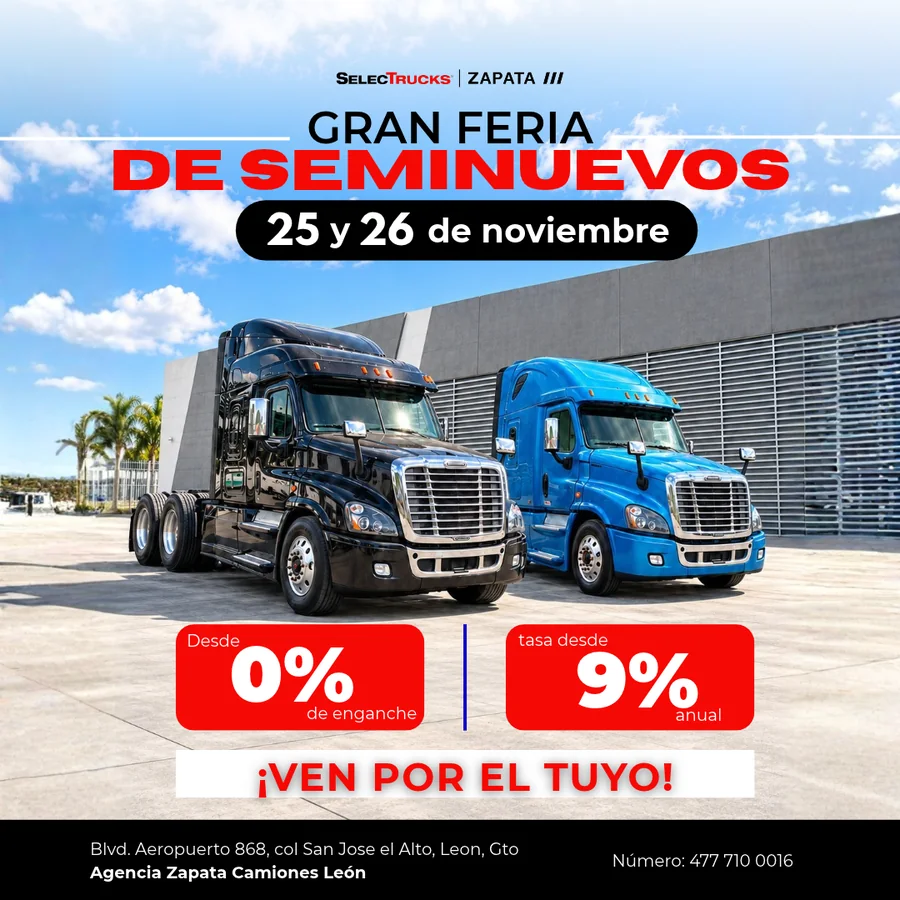
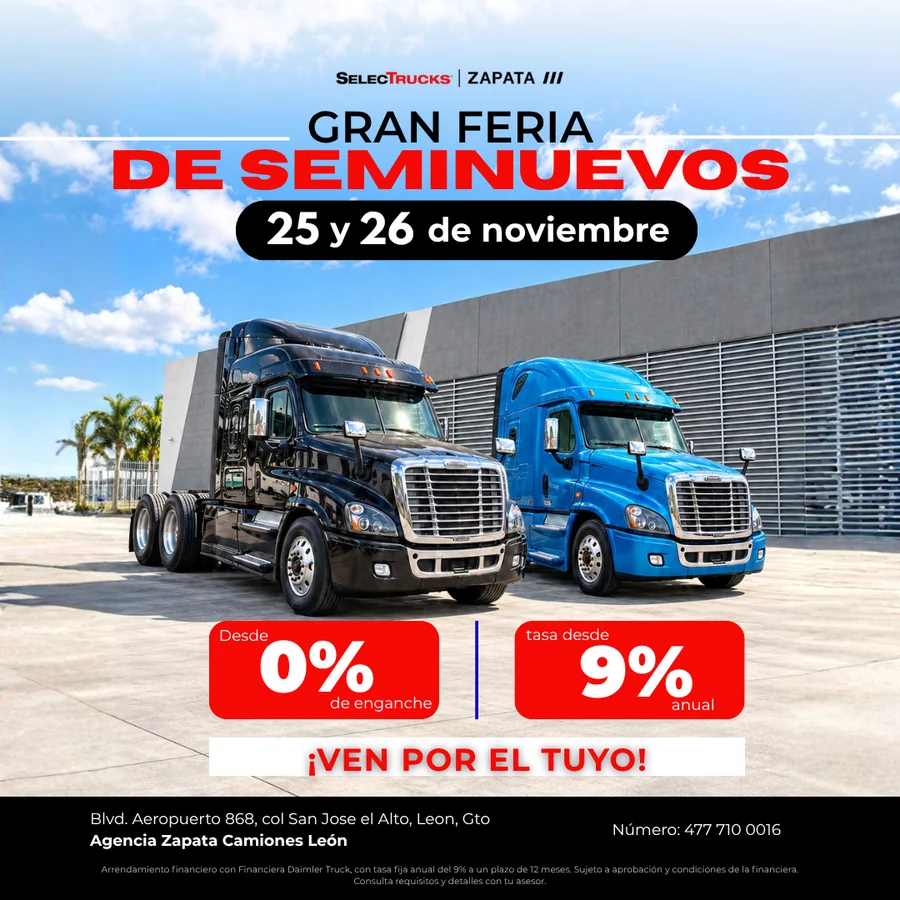
Actualización desde selectrucks-zapata-web@36e855b

diff --git a/sitio/catalog.jsx b/sitio/catalog.jsx
@@ -15,17 +15,16 @@ const CAT_UNITS = [
   { id: 22, brand: 'Freightliner', model: 'Cascadia',   year: 2021, km: '280,000', engine: 'DD15 · 505hp',        type: 'Tractocamión',    price: 1380000, monthly: 32600, branch: 'Guadalajara',   featured: true,  warranty: true, status: 'Disponible' },
   { id: 23, brand: 'International',model: 'HV Series',  year: 2020, km: '310,000', engine: 'A26 · 430hp',         type: 'Refrigerado',     price: 1150000, monthly: 27100, branch: 'Querétaro',     featured: false, warranty: true, status: 'Disponible' },
   { id: 24, brand: 'Volvo',        model: 'FH 460',     year: 2018, km: '560,000', engine: 'D13 · 460hp',         type: 'Cama baja',       price: 890000,  monthly: 20990, branch: 'Tlalnepantla',  featured: false, warranty: true, status: 'Oferta' },
-  { id: 101, brand: 'Freightliner', model: 'Cascadia', year: 2017, km: 'Por confirmar', engine: 'Por confirmar', type: 'Tractocamión', price: null, monthly: null, branch: 'Guadalajara', featured: false, warranty: true, status: 'Disponible', promo: true, image: 'assets/promo-especial/01-cascadia-2017-guadalajara.webp' },
+  { id: 101, brand: 'Freightliner', model: 'Cascadia', year: 2017, km: 'Por confirmar', engine: 'Por confirmar', type: 'Tractocamión', price: null, monthly: null, branch: 'Guadalajara Zapopan', featured: false, warranty: true, status: 'Disponible', promo: true, image: 'assets/promo-especial/01-cascadia-2017-zapopan.webp' },
   { id: 102, brand: 'Freightliner', model: 'Cascadia', year: 2017, km: 'Por confirmar', engine: 'Por confirmar', type: 'Tractocamión', price: null, monthly: null, branch: 'Tlalnepantla', featured: false, warranty: true, status: 'Disponible', promo: true, image: 'assets/promo-especial/02-cascadia-2017-tlalnepantla.webp' },
-  { id: 103, brand: 'Freightliner', model: 'Cascadia', year: 2012, km: 'Por confirmar', engine: 'Por confirmar', type: 'Tractocamión', price: null, monthly: null, branch: 'Guadalajara', featured: false, warranty: true, status: 'Disponible', promo: true, image: 'assets/promo-especial/03-cascadia-2012-guadalajara.webp' },
-  { id: 104, brand: 'Freightliner', model: 'Cascadia', year: 2021, km: 'Por confirmar', engine: 'Por confirmar', type: 'Tractocamión', price: null, monthly: null, branch: 'Guadalajara', featured: false, warranty: true, status: 'Disponible', promo: true, image: 'assets/promo-especial/04-cascadia-2021-guadalajara.webp' },
-  { id: 105, brand: 'International', model: 'LT Hi Rise Euro', year: 2022, km: 'Por confirmar', engine: 'Por confirmar', type: 'Tractocamión', price: null, monthly: null, branch: 'Guadalajara', featured: false, warranty: true, status: 'Disponible', promo: true, image: 'assets/promo-especial/05-lt-hi-rise-euro-2022-guadalajara.webp' },
-  { id: 106, brand: 'Volvo', model: 'VNL64T', year: 2019, km: 'Por confirmar', engine: 'Por confirmar', type: 'Tractocamión', price: null, monthly: null, branch: 'Guadalajara', featured: false, warranty: true, status: 'Disponible', promo: true, image: 'assets/promo-especial/06-vnl64t-2019-guadalajara.webp' },
-  { id: 107, brand: 'Freightliner', model: 'Cascadia', year: 2018, km: 'Por confirmar', engine: 'Por confirmar', type: 'Tractocamión', price: null, monthly: null, branch: 'Guadalajara', featured: false, warranty: true, status: 'Disponible', promo: true, image: 'assets/promo-especial/07-cascadia-2018-guadalajara.webp' },
+  { id: 103, brand: 'Freightliner', model: 'Cascadia', year: 2012, km: 'Por confirmar', engine: 'Por confirmar', type: 'Tractocamión', price: null, monthly: null, branch: 'Guadalajara Zapopan', featured: false, warranty: true, status: 'Disponible', promo: true, image: 'assets/promo-especial/03-cascadia-2012-zapopan.webp' },
+  { id: 104, brand: 'Freightliner', model: 'Cascadia', year: 2021, km: 'Por confirmar', engine: 'Por confirmar', type: 'Tractocamión', price: null, monthly: null, branch: 'Guadalajara Zapopan', featured: false, warranty: true, status: 'Disponible', promo: true, image: 'assets/promo-especial/04-cascadia-2021-zapopan.webp' },
+  { id: 105, brand: 'International', model: 'LT Hi Rise Euro', year: 2022, km: 'Por confirmar', engine: 'Por confirmar', type: 'Tractocamión', price: null, monthly: null, branch: 'Guadalajara Zapopan', featured: false, warranty: true, status: 'Disponible', promo: true, image: 'assets/promo-especial/05-lt-hi-rise-euro-2022-zapopan.webp' },
+  { id: 106, brand: 'Volvo', model: 'VNL64T', year: 2019, km: 'Por confirmar', engine: 'Por confirmar', type: 'Tractocamión', price: null, monthly: null, branch: 'Guadalajara Zapopan', featured: false, warranty: true, status: 'Disponible', promo: true, image: 'assets/promo-especial/06-vnl64t-2019-zapopan.webp' },
+  { id: 107, brand: 'Freightliner', model: 'Cascadia', year: 2018, km: 'Por confirmar', engine: 'Por confirmar', type: 'Tractocamión', price: null, monthly: null, branch: 'Guadalajara Zapopan', featured: false, warranty: true, status: 'Disponible', promo: true, image: 'assets/promo-especial/07-cascadia-2018-zapopan.webp' },
   { id: 108, brand: 'Freightliner', model: 'Cascadia', year: 2020, km: 'Por confirmar', engine: 'Por confirmar', type: 'Tractocamión', price: null, monthly: null, branch: 'Querétaro', featured: false, warranty: true, status: 'Disponible', promo: true, image: 'assets/promo-especial/08-cascadia-2020-queretaro.webp' },
-  { id: 109, brand: 'Caja', model: 'refrigerada', year: 2015, km: 'Por confirmar', engine: 'Por confirmar', type: 'Refrigerado', price: null, monthly: null, branch: 'León', featured: false, warranty: true, status: 'Disponible', promo: true, image: 'assets/promo-especial/09-caja-refrigerada-2015-leon.webp' },
-  { id: 110, brand: 'Caja', model: 'refrigerada', year: 2019, km: 'Por confirmar', engine: 'Por confirmar', type: 'Refrigerado', price: null, monthly: null, branch: 'León', featured: false, warranty: true, status: 'Disponible', promo: true, image: 'assets/promo-especial/10-caja-refrigerada-2019-leon.webp' },
-  { id: 111, brand: 'Freightliner', model: 'Cascadia', year: 2018, km: 'Por confirmar', engine: 'Por confirmar', type: 'Tractocamión', price: null, monthly: null, branch: 'Tlalnepantla', featured: false, warranty: true, status: 'Disponible', promo: true, image: 'assets/promo-especial/11-cascadia-2018-tlalnepantla.webp' },
+  { id: 110, brand: 'Caja', model: 'refrigerada', year: 2019, km: 'Por confirmar', engine: 'Por confirmar', type: 'Refrigerado', price: null, monthly: null, branch: 'León', featured: false, warranty: true, status: 'Disponible', promo: true, image: 'assets/promo-especial/09-caja-refrigerada-2019-leon.webp' },
+  { id: 111, brand: 'Freightliner', model: 'Cascadia', year: 2016, km: 'Por confirmar', engine: 'Por confirmar', type: 'Tractocamión', price: null, monthly: null, branch: 'Tlalnepantla', featured: false, warranty: true, status: 'Disponible', promo: true, image: 'assets/promo-especial/10-cascadia-2016-tlalnepantla.webp' },
 ];
 
 function FilterGroup({ title, children, defaultOpen = true }) {
@@ -269,7 +268,7 @@ function Catalog({ onContact }) {
 
   // Active chips
   const chips = [];
-  if (filters.promo) chips.push({ key: 'promo', label: 'Promoción especial · ' + CAT_UNITS.filter(u => u.promo).length + ' unidades', remove: () => setFilters({ ...filters, promo: false, year: [2017, 2023] }) });
+  if (filters.promo) chips.push({ key: 'promo', label: 'Promoción especial · ' + CAT_UNITS.filter(u => u.promo).length + ' modelos', remove: () => setFilters({ ...filters, promo: false, year: [2017, 2023] }) });
   (filters.brand || []).forEach(v => chips.push({ key: 'brand-' + v, label: v, remove: () => setFilters({ ...filters, brand: filters.brand.filter(x => x !== v) }) }));
   (filters.type || []).forEach(v => chips.push({ key: 'type-' + v, label: v, remove: () => setFilters({ ...filters, type: filters.type.filter(x => x !== v) }) }));
   (filters.branch || []).forEach(v => chips.push({ key: 'branch-' + v, label: v, remove: () => setFilters({ ...filters, branch: filters.branch.filter(x => x !== v) }) }));

diff --git a/sitio/components-top.jsx b/sitio/components-top.jsx
@@ -108,18 +108,19 @@ function Navbar({ onContact, onBranch }) {
 // Carrusel de promociones y eventos. Para publicar un anuncio, edita PROMOS.
 // type: 'promo' (rojo) · 'evento' (lima) · 'anuncio' (blanco) · tab: nombre de su pestaña
 // Un anuncio con `gallery` muestra sus artes completos (con miniaturas si son varios) y se pueden ampliar.
+// branch: la sucursal como la dice el arte · form: su nombre en el formulario de Contacto
+// (el formulario no tiene «Guadalajara Zapopan»; ahí le corresponde «Guadalajara»)
 const PROMO_ESPECIAL = [
-  { name: 'Cascadia 2017',         branch: 'Guadalajara',  file: '01-cascadia-2017-guadalajara.webp' },
-  { name: 'Cascadia 2017',         branch: 'Tlalnepantla', file: '02-cascadia-2017-tlalnepantla.webp' },
-  { name: 'Cascadia 2012',         branch: 'Guadalajara',  file: '03-cascadia-2012-guadalajara.webp' },
-  { name: 'Cascadia 2021',         branch: 'Guadalajara',  file: '04-cascadia-2021-guadalajara.webp' },
-  { name: 'LT Hi Rise Euro 2022',  branch: 'Guadalajara',  file: '05-lt-hi-rise-euro-2022-guadalajara.webp' },
-  { name: 'VNL64T 2019',           branch: 'Guadalajara',  file: '06-vnl64t-2019-guadalajara.webp' },
-  { name: 'Cascadia 2018',         branch: 'Guadalajara',  file: '07-cascadia-2018-guadalajara.webp' },
-  { name: 'Cascadia 2020',         branch: 'Querétaro',    file: '08-cascadia-2020-queretaro.webp' },
-  { name: 'Caja refrigerada 2015', branch: 'León',         file: '09-caja-refrigerada-2015-leon.webp' },
-  { name: 'Caja refrigerada 2019', branch: 'León',         file: '10-caja-refrigerada-2019-leon.webp' },
-  { name: 'Cascadia 2018',         branch: 'Tlalnepantla', file: '11-cascadia-2018-tlalnepantla.webp' },
+  { name: 'Cascadia 2017',         branch: 'Guadalajara Zapopan', form: 'Guadalajara', file: '01-cascadia-2017-zapopan.webp' },
+  { name: 'Cascadia 2017',         branch: 'Tlalnepantla',        file: '02-cascadia-2017-tlalnepantla.webp' },
+  { name: 'Cascadia 2012',         branch: 'Guadalajara Zapopan', form: 'Guadalajara', file: '03-cascadia-2012-zapopan.webp' },
+  { name: 'Cascadia 2021',         branch: 'Guadalajara Zapopan', form: 'Guadalajara', file: '04-cascadia-2021-zapopan.webp' },
+  { name: 'LT Hi Rise Euro 2022',  branch: 'Guadalajara Zapopan', form: 'Guadalajara', file: '05-lt-hi-rise-euro-2022-zapopan.webp' },
+  { name: 'VNL64T 2019',           branch: 'Guadalajara Zapopan', form: 'Guadalajara', file: '06-vnl64t-2019-zapopan.webp' },
+  { name: 'Cascadia 2018',         branch: 'Guadalajara Zapopan', form: 'Guadalajara', file: '07-cascadia-2018-zapopan.webp' },
+  { name: 'Cascadia 2020',         branch: 'Querétaro',           file: '08-cascadia-2020-queretaro.webp' },
+  { name: 'Caja refrigerada 2019', branch: 'León',                file: '09-caja-refrigerada-2019-leon.webp' },
+  { name: 'Cascadia 2016',         branch: 'Tlalnepantla',        file: '10-cascadia-2016-tlalnepantla.webp' },
 ].map((a) => ({ ...a, image: 'assets/promo-especial/' + a.file }));
 
 const EVENTOS = [
@@ -128,7 +129,9 @@ const EVENTOS = [
     branch: 'León',
     file: 'gran-feria-seminuevos-leon.webp',
     image: 'assets/eventos/gran-feria-seminuevos-leon.webp',
-    alt: 'Gran Feria de Seminuevos, 25 y 26 de noviembre en Zapata Camiones León. Desde 0% de enganche y tasa desde 9% anual.',
+    alt: 'Gran Feria de Seminuevos, 25 y 26 de noviembre en Agencia Zapata Camiones León. Desde 0% de enganche y tasa desde 9% anual. '
+       + 'Arrendamiento financiero con Financiera Daimler Truck, con tasa fija anual del 9% a un plazo de 12 meses. '
+       + 'Sujeto a aprobación y condiciones de la financiera.',
   },
 ];
 
@@ -139,13 +142,15 @@ const PROMOS = [
     tabSub: 'Precio especial',
     label: 'Promoción especial',
     gallery: PROMO_ESPECIAL,
+    // Unidades disponibles: algunos modelos tienen más de una, así que no es el número de artes
+    count: 16,
     countLabel: 'unidades en precio especial',
-    desc: `Tractocamiones y cajas refrigeradas en ${new Set(PROMO_ESPECIAL.map((a) => a.branch)).size} sucursales.`,
+    desc: `${PROMO_ESPECIAL.length} modelos de tractocamiones y cajas refrigeradas en ${new Set(PROMO_ESPECIAL.map((a) => a.branch)).size} sucursales.`,
     text: 'Hasta agotar existencias',
     cta: 'Me interesa esta unidad',
     // Contacto con la sucursal, el motivo y un mensaje de la unidad del arte actual
     hrefFor: (a) => 'Selectrucks%20Zapata%20-%20Contacto.html?' + new URLSearchParams({
-      sucursal: a.branch,
+      sucursal: a.form || a.branch,
       motivo: 'Promoción especial',
       mensaje: `Hola, quiero conocer más sobre la unidad ${a.name} de Zapata ${a.branch} que está en promoción especial.`,
     }).toString() + '#formulario',
@@ -160,6 +165,9 @@ const PROMOS = [
     text: '25 y 26 de noviembre · Zapata Camiones León',
     perks: ['Desde 0% de enganche', 'Tasa desde 9% anual'],
     meta: 'Blvd. Aeropuerto 868, León, Gto.',
+    // Leyenda del financiamiento, tal como viene en el arte
+    legal: 'Arrendamiento financiero con Financiera Daimler Truck, con tasa fija anual del 9% a un plazo de 12 meses. '
+         + 'Sujeto a aprobación y condiciones de la financiera. Consulta requisitos y detalles con tu asesor.',
     cta: 'Quiero asistir',
     href: 'Selectrucks%20Zapata%20-%20Contacto.html?sucursal=Le%C3%B3n&motivo=Gran%20Feria%20de%20Seminuevos#formulario',
   },
@@ -352,7 +360,7 @@ function PromoBanner() {
                         {p.countLabel ? (
                           <>
                             <h3 className="promo-slide__headline">
-                              <strong>{p.gallery.length}</strong> {p.countLabel}
+                              <strong>{p.count || p.gallery.length}</strong> {p.countLabel}
                             </h3>
                             <p className="promo-slide__desc">{p.desc}</p>
                             <p className="promo-slide__stock"><span className="promo-slide__pulse" aria-hidden="true" />{p.text}</p>
@@ -366,13 +374,14 @@ function PromoBanner() {
                                 {p.perks.map((k) => <li key={k}>{k}</li>)}
                               </ul>
                             )}
+                            {p.legal && <p className="promo-slide__legal">{p.legal}</p>}
                           </>
                         )}
                       </div>
                       <div className="promo-slide__foot">
                         {p.countLabel && cur ? (
                           <div className="promo-slide__unit" aria-live={on ? 'polite' : undefined}>
-                            <span className="promo-slide__unit-label">Unidad {pad2(pos + 1)} de {pad2(p.gallery.length)}</span>
+                            <span className="promo-slide__unit-label">Modelo {pad2(pos + 1)} de {pad2(p.gallery.length)}</span>
                             <strong>{cur.name}</strong>
                             <span className="promo-slide__unit-branch"><Icon.Pin /> Zapata {cur.branch}</span>
                           </div>
@@ -420,7 +429,7 @@ function PromoBanner() {
                     <span className="promo-tab__label">{p.tab}</span>
                     <span className="promo-tab__sub">{p.tabSub}</span>
                   </span>
-                  {p.countLabel && <span className="promo-tab__badge" aria-label={`${p.gallery.length} unidades`}>{p.gallery.length}</span>}
+                  {p.countLabel && <span className="promo-tab__badge" aria-label={`${p.count || p.gallery.length} unidades`}>{p.count || p.gallery.length}</span>}
                   <span className="promo-tab__go" aria-hidden="true"><Icon.Arrow /></span>
                   <span className="promo-tab__bar" aria-hidden="true">
                     {on && (

diff --git a/sitio/Selectrucks Zapata - Inventario.html b/sitio/Selectrucks Zapata - Inventario.html
@@ -8,9 +8,9 @@
 <link rel="preconnect" href="https://fonts.googleapis.com" />
 <link rel="preconnect" href="https://fonts.gstatic.com" crossorigin />
 <link href="https://fonts.googleapis.com/css2?family=League+Spartan:wght@400;600;700;800;900&family=Poppins:wght@300;400;500;600;700&family=JetBrains+Mono:wght@400;500;600&display=swap" rel="stylesheet" />
-<link rel="stylesheet" href="styles.css?v=20261104m" />
-<link rel="stylesheet" href="sections.css?v=20261104m" />
-<link rel="stylesheet" href="catalog.css?v=20261104m" />
+<link rel="stylesheet" href="styles.css?v=20261105d" />
+<link rel="stylesheet" href="sections.css?v=20261105d" />
+<link rel="stylesheet" href="catalog.css?v=20261105d" />
 </head>
 <body>
 <div id="root"></div>
@@ -19,10 +19,10 @@
 <script src="https://unpkg.com/react-dom@18.3.1/umd/react-dom.development.js" integrity="sha384-u6aeetuaXnQ38mYT8rp6sbXaQe3NL9t+IBXmnYxwkUI2Hw4bsp2Wvmx4yRQF1uAm" crossorigin="anonymous"></script>
 <script src="https://unpkg.com/@babel/standalone@7.29.0/babel.min.js" integrity="sha384-m08KidiNqLdpJqLq95G/LEi8Qvjl/xUYll3QILypMoQ65QorJ9Lvtp2RXYGBFj1y" crossorigin="anonymous"></script>
 
-<script src="data.js?v=20261104m"></script>
-<script type="text/babel" src="components-top.jsx?v=20261104m"></script>
-<script type="text/babel" src="components-bottom.jsx?v=20261104m"></script>
-<script type="text/babel" src="catalog.jsx?v=20261104m"></script>
+<script src="data.js?v=20261105d"></script>
+<script type="text/babel" src="components-top.jsx?v=20261105d"></script>
+<script type="text/babel" src="components-bottom.jsx?v=20261105d"></script>
+<script type="text/babel" src="catalog.jsx?v=20261105d"></script>
 
 <script type="text/babel">
 function App() {

diff --git a/sitio/Selectrucks Zapata - Home.html b/sitio/Selectrucks Zapata - Home.html
@@ -8,8 +8,8 @@
 <link rel="preconnect" href="https://fonts.googleapis.com" />
 <link rel="preconnect" href="https://fonts.gstatic.com" crossorigin />
 <link href="https://fonts.googleapis.com/css2?family=League+Spartan:wght@400;600;700;800;900&family=Poppins:wght@300;400;500;600;700&family=JetBrains+Mono:wght@400;500;600&display=swap" rel="stylesheet" />
-<link rel="stylesheet" href="styles.css?v=20261104m" />
-<link rel="stylesheet" href="sections.css?v=20261104m" />
+<link rel="stylesheet" href="styles.css?v=20261105d" />
+<link rel="stylesheet" href="sections.css?v=20261105d" />
 </head>
 <body>
 <div id="root"></div>
@@ -18,9 +18,9 @@
 <script src="https://unpkg.com/react-dom@18.3.1/umd/react-dom.development.js" integrity="sha384-u6aeetuaXnQ38mYT8rp6sbXaQe3NL9t+IBXmnYxwkUI2Hw4bsp2Wvmx4yRQF1uAm" crossorigin="anonymous"></script>
 <script src="https://unpkg.com/@babel/standalone@7.29.0/babel.min.js" integrity="sha384-m08KidiNqLdpJqLq95G/LEi8Qvjl/xUYll3QILypMoQ65QorJ9Lvtp2RXYGBFj1y" crossorigin="anonymous"></script>
 
-<script src="data.js?v=20261104m"></script>
-<script type="text/babel" src="components-top.jsx?v=20261104m"></script>
-<script type="text/babel" src="components-bottom.jsx?v=20261104m"></script>
+<script src="data.js?v=20261105d"></script>
+<script type="text/babel" src="components-top.jsx?v=20261105d"></script>
+<script type="text/babel" src="components-bottom.jsx?v=20261105d"></script>
 
 <script type="text/babel">
 function App() {

diff --git a/sitio/sections.css b/sitio/sections.css
@@ -1829,6 +1829,7 @@
 @keyframes promo-pulse { 0% { box-shadow: 0 0 0 0 rgba(206,0,0,0.55); } 70%, 100% { box-shadow: 0 0 0 9px rgba(206,0,0,0); } }
 
 .promo-slide__perks { list-style: none; display: flex; flex-wrap: wrap; gap: 8px; }
+.promo-slide__legal { max-width: 46ch; font-size: clamp(11px, 1.5vh, 12.5px); font-weight: 500; line-height: 1.45; }
 .promo-slide__perks li { padding: 10px 13px 9px; background: var(--black); color: var(--lime); font-family: 'League Spartan', sans-serif; font-weight: 800; font-size: clamp(12px, 1.7vh, 14px); letter-spacing: 0.06em; text-transform: uppercase; line-height: 1; }
 
 .promo-slide__foot { display: flex; flex-direction: column; gap: clamp(12px, 2vh, 18px); padding-top: clamp(14px, 2.4vh, 22px); border-top: 1px solid var(--line-c); }
@@ -1973,4 +1974,9 @@
 /* Teléfonos de poca altura */
 @media (max-width: 820px) and (max-height: 760px) {
   .promo-car { --media-h: 300px; }
+}
+
+/* Leyenda del financiamiento en celular: letra chica para que el banner siga cabiendo en una pantalla */
+@media (max-width: 820px) {
+  .promo-slide__legal { max-width: none; font-size: 10.5px; line-height: 1.35; }
 }

diff --git a/sitio/Selectrucks Zapata - Contacto.html b/sitio/Selectrucks Zapata - Contacto.html
@@ -14,8 +14,8 @@
       href="https://fonts.googleapis.com/css2?family=League+Spartan:wght@400;600;700;800;900&family=Poppins:wght@300;400;500;600;700&family=JetBrains+Mono:wght@400;500;600&display=swap"
       rel="stylesheet"
     />
-    <link rel="stylesheet" href="styles.css?v=20261104m" />
-    <link rel="stylesheet" href="sections.css?v=20261104m" />
+    <link rel="stylesheet" href="styles.css?v=20261105d" />
+    <link rel="stylesheet" href="sections.css?v=20261105d" />
     <style>
       .page-hero {
         padding-top: 0;

diff --git a/README.md b/README.md
@@ -36,12 +36,15 @@ servirlas por HTTP:
 
 - **Diseño, textos e imágenes:** se respetan tal cual. El código les sirve de base y **pueden adaptarlo** para
   integrarlo a su sitio.
+- **Qué aplica de esta entrega:** el banner del Home y los cambios de Contacto. El Inventario no cambia: el filtro
+  de promoción (`?promo=especial`) y las fichas «por confirmar» de las unidades en promoción son solo de la maqueta.
 - **Inventario:** las unidades de `data.js` son una muestra para ver el diseño, con fotos de ejemplo, y la ficha
   de unidad existe solo para la Cascadia 2017. En el sitio publicado el inventario y las fichas salen de los datos
   reales de unidades.
 - **Formularios:** son de demostración y no envían nada. En el sitio publicado necesitan un destino definido y,
   del lado del servidor, límite de envíos o CAPTCHA, validación y aviso de privacidad.
-- **WhatsApp:** los botones abren una conversación con el número de SelecTrucks. Se confirma antes de publicar.
+- **WhatsApp:** se queda como está hoy en selectruckszapata.com. No lo reemplacen por los botones de WhatsApp de
+  esta maqueta.
 
 ## Antes de publicar
 
